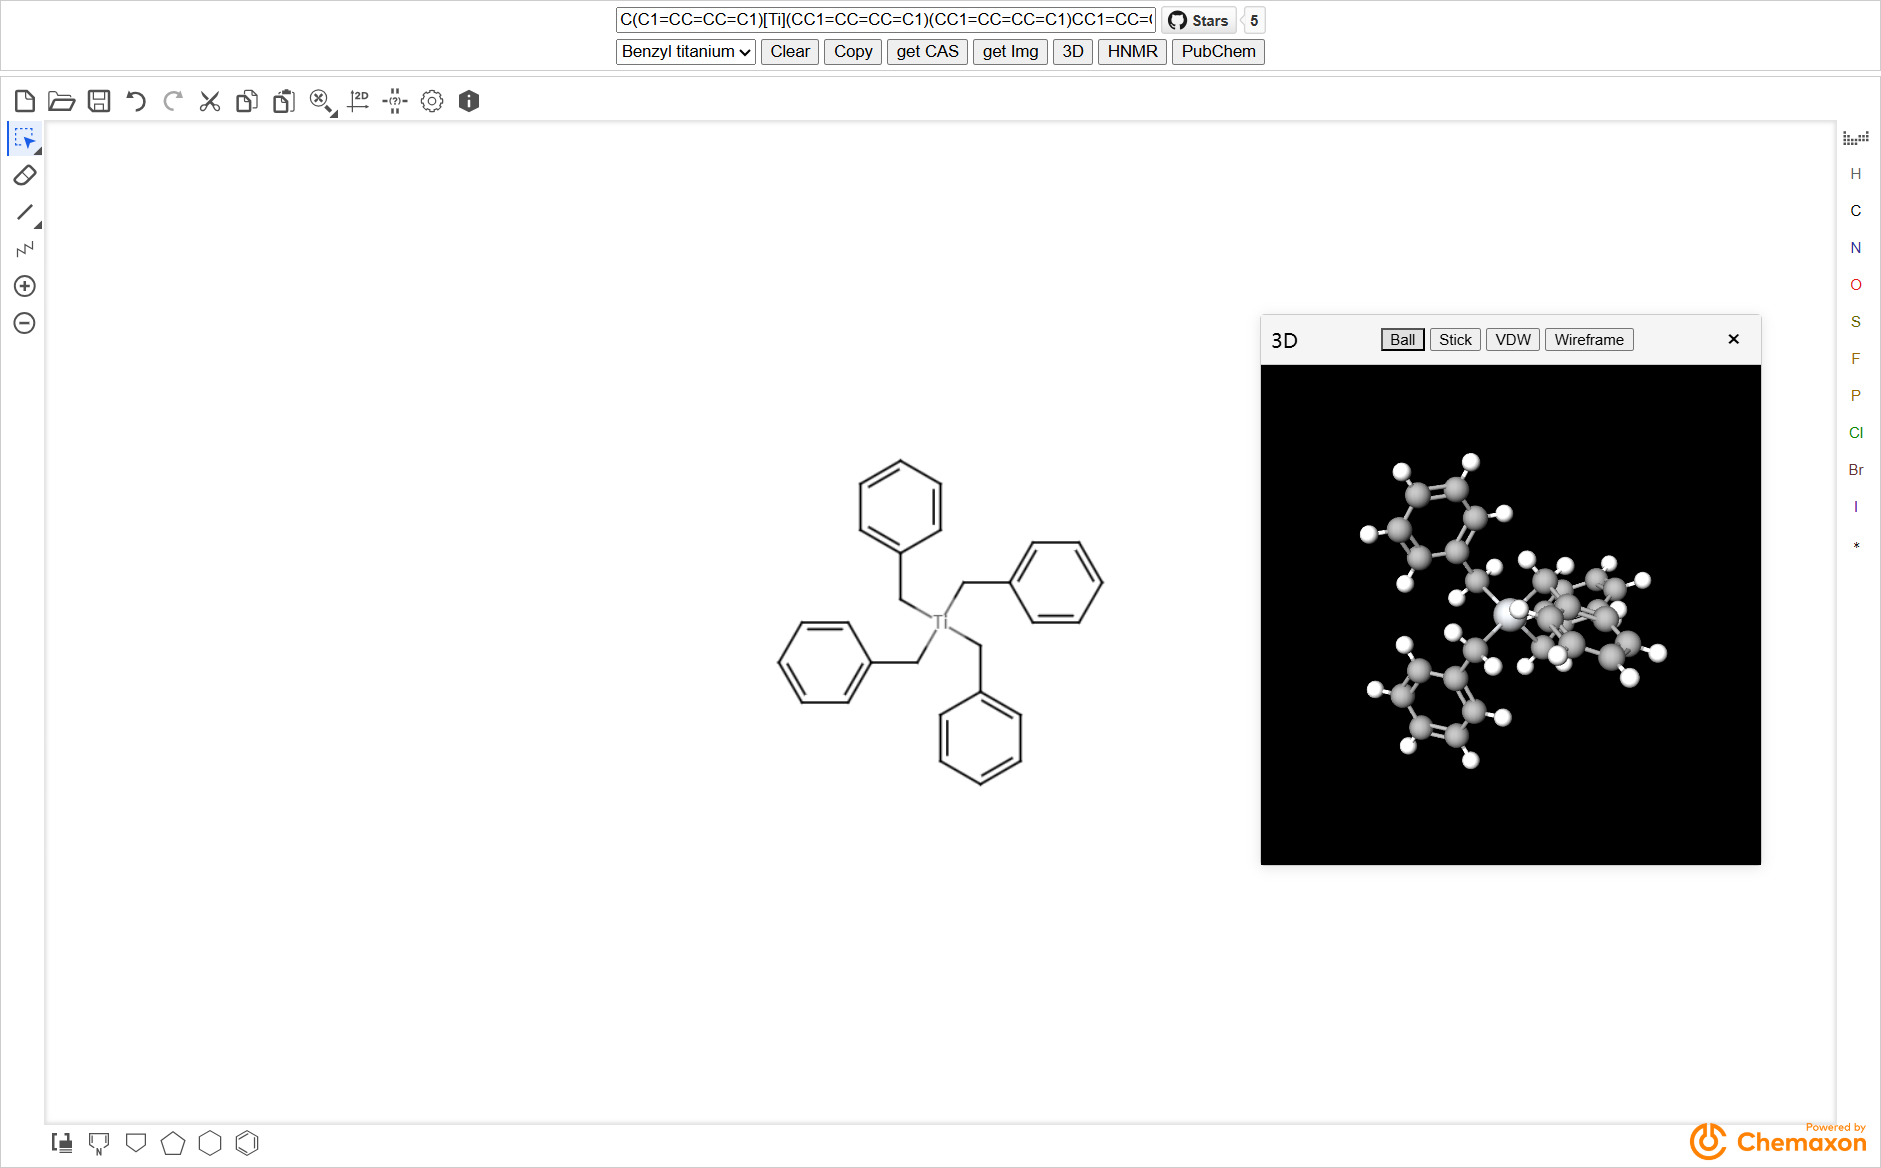
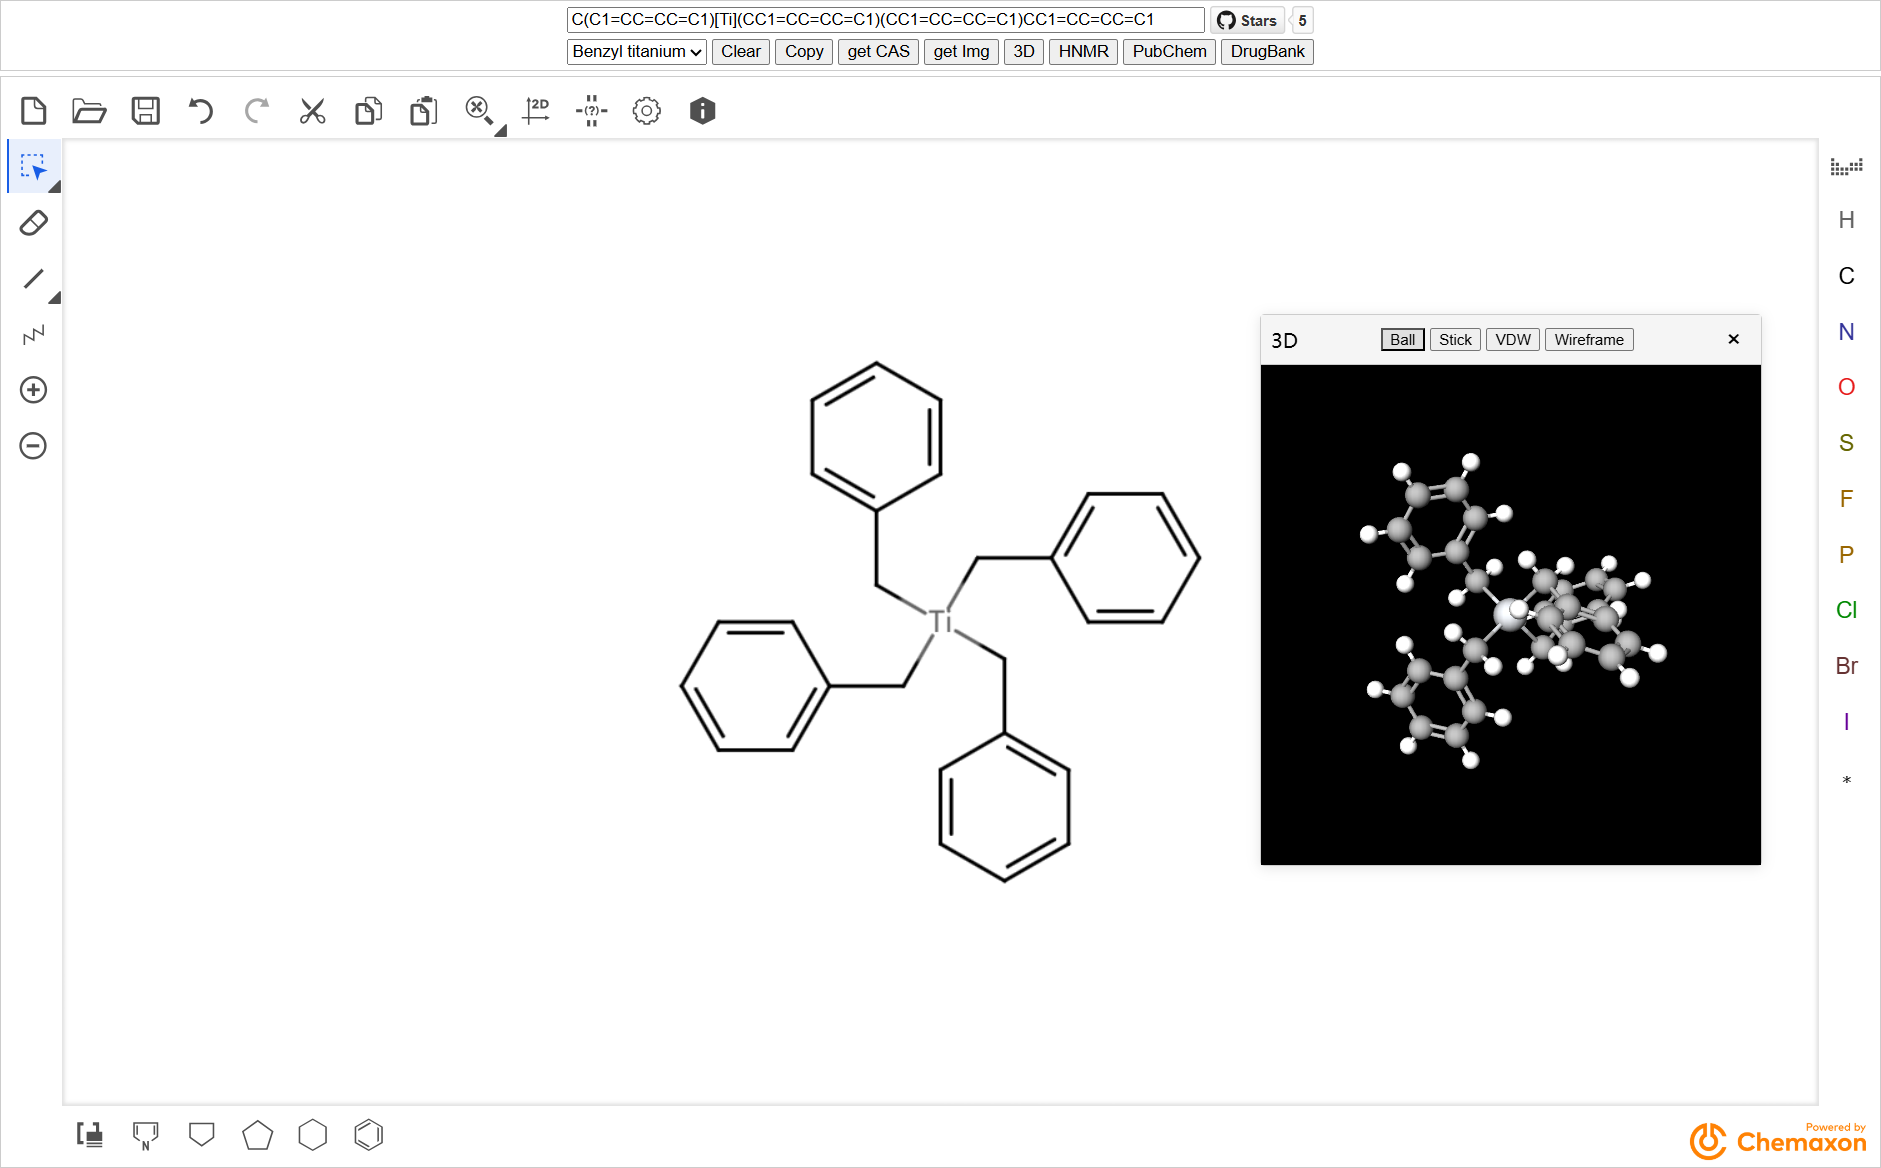
add DrugBank search

diff --git a/src/components/ControlPanel.vue b/src/components/ControlPanel.vue
@@ -36,6 +36,7 @@
         <button @click="handle3DView">3D</button>
         <button @click="handleHNMR">HNMR</button>
         <button @click="handlePubChem">PubChem</button>
+        <button @click="handleGetDrugBank">DrugBank</button>
       </div>
     </div>
   </div>
@@ -231,7 +232,6 @@ export default {
 
     async handlePubChemImage() {
       if (!this.smilesValue) {
-        alert('请先输入SMILES');
         return;
       }
 
@@ -285,6 +285,57 @@ export default {
         console.error('获取PubChem图片时出错:', error);
         alert('获取PubChem图片失败，请检查网络连接');
       }
+    },
+
+    async handleGetDrugBank() {
+      if (!this.smilesValue) {
+        return;
+      }
+      try {
+        const cid = await this.getPubChemCID(this.smilesValue);
+        if (!cid) {
+          alert('未找到对应的化合物');
+          return;
+        }
+        const url = `https://pubchem.ncbi.nlm.nih.gov/rest/pug_view/data/compound/${cid}/JSON/`;
+        const response = await fetch(url);
+        if (!response.ok) {
+          throw new Error('获取 DrugBank ID 失败');
+        }
+        const data = await response.json();
+
+        function findDrugBankId(sections) {
+          for (const section of sections || []) {
+            if (section.TOCHeading === 'DrugBank ID') {
+              const info = section.Information?.[0];
+              if (info) {
+                if (info.URL) {
+                  return { id: info.Value?.StringWithMarkup?.[0]?.String, url: info.URL };
+                }
+                if (info.Value?.StringWithMarkup?.[0]?.String) {
+                  const id = info.Value.StringWithMarkup[0].String;
+                  return { id, url: `https://go.drugbank.com/drugs/${id}` };
+                }
+              }
+            }
+            if (section.Section) {
+              const result = findDrugBankId(section.Section);
+              if (result) return result;
+            }
+          }
+          return null;
+        }
+
+        const result = findDrugBankId(data.Record?.Section);
+
+        if (result && result.url) {
+          window.open(result.url, '_blank');
+        } else {
+          alert('未找到 DrugBank ID');
+        }
+      } catch (e) {
+        alert('获取 DrugBank ID 失败');
+      }
     }
   }
 }
@@ -312,7 +363,7 @@ export default {
   display: flex;
   align-items: center;
   width: 100%;
-  max-width: 520px;
+  max-width: 598px;
   gap: 4px;
 }
 
@@ -339,7 +390,7 @@ export default {
   flex-wrap: wrap;
 }
 
-@media screen and (max-width: 550px) {
+@media screen and (max-width: 625px) {
   .button-group {
     flex-direction: row;
     flex-wrap: wrap;
@@ -347,7 +398,7 @@ export default {
   
   .button-group button {
     flex: 1;
-    min-width: 65px;
+    min-width: 70px;
   }
 }
 </style> 

diff --git a/src/components/MarvinEditor.vue b/src/components/MarvinEditor.vue
@@ -35,7 +35,7 @@ export default {
   flex-direction: column;
   align-items: center;
 }
-@media screen and (max-width: 400px) {
+@media screen and (max-width: 625px) {
   .control-panel {
     height: 75vh;
     margin-bottom: 0;

diff --git a/README.md b/README.md
@@ -9,6 +9,7 @@ Powered by [Chemaxon](https://chemaxon.com)
 - [pubchem](https://pubchem.ncbi.nlm.nih.gov)
 - [nmrdb](https://www.nmrdb.org)
 - [molview](https://molview.org)
+- [drugbank](https://go.drugbank.com)
 
 ## 预览
 
@@ -19,6 +20,7 @@ Powered by [Chemaxon](https://chemaxon.com)
 - smiles与结构式互相转换
 - PubChem搜索
 - HNMR搜索
+- DrugBank搜索
 - Example:
     - Benzyl titanium
     - Pregabalin
